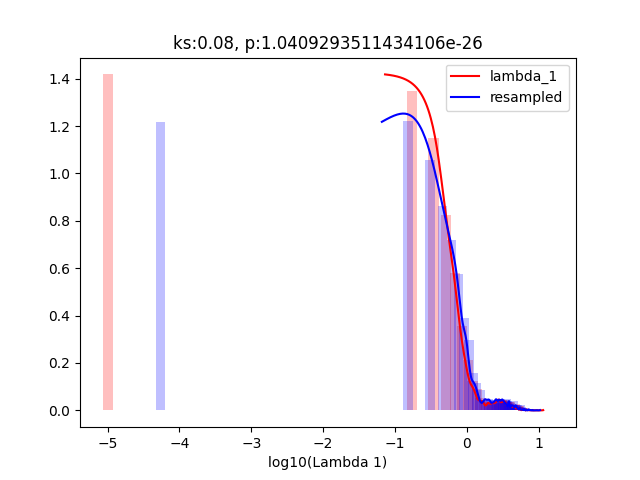
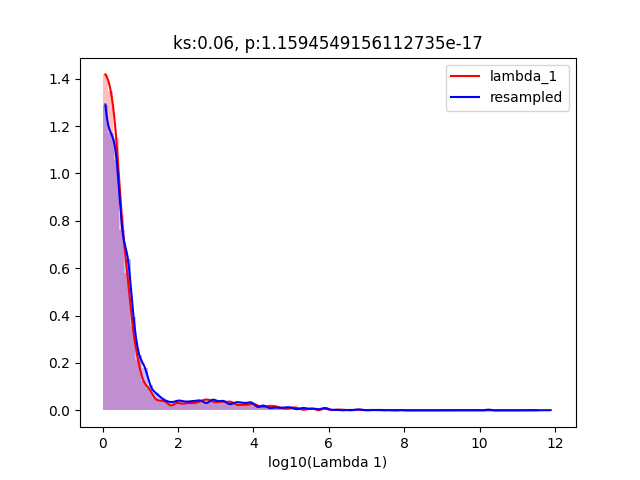
Changed naming convention for plots and a title for ks test! Take3/

diff --git a/year3/lastStretch/lambdaReflectionStudy/reflectionTests.py b/year3/lastStretch/lambdaReflectionStudy/reflectionTests.py
@@ -13,7 +13,7 @@ from sklearn.neighbors import KernelDensity
 filename = "../files/NSBH/gw230529_phenom_lowSpin.json"
 with open(filename,"r") as f: data = json.load(f)['posterior']['content']
 
-logq=False
+logq=True
 modsel = ems.Model_selection(filename,kdedim=3,logq=logq) #uncomment later
 margPostData = modsel.margPostData #uncomment later
 
@@ -196,10 +196,10 @@ def ksTest(plot=False):
 
     if plot:
         plt.clf()
-        plt.bar(np.log10(bin_edgesDef[:-1]),histDef,width=np.diff(bin_edgesDef),align='edge',color='red',alpha=0.25)
-        plt.bar(np.log10(bin_edgesResamp[:-1]),histResamp,width=np.diff(bin_edgesResamp),align='edge',color='blue',alpha=0.25)
-        plt.plot(np.log10(bin_centDef_smooth),histDef_smooth,color='red',label="lambda_1")
-        plt.plot(np.log10(bin_centResamp_smooth),histResamp_smooth,color='blue',label="resampled")
+        plt.bar(bin_edgesDef[:-1],histDef,width=np.diff(bin_edgesDef),align='edge',color='red',alpha=0.25)
+        plt.bar(bin_edgesResamp[:-1],histResamp,width=np.diff(bin_edgesResamp),align='edge',color='blue',alpha=0.25)
+        plt.plot(bin_centDef_smooth,histDef_smooth,color='red',label="lambda_1")
+        plt.plot(bin_centResamp_smooth,histResamp_smooth,color='blue',label="resampled")
         plt.legend()
         plt.xlabel("log10(Lambda 1)")
         plt.title("ks:{:.2f}, p:{}".format(rawKS[0],rawKS[1]))
